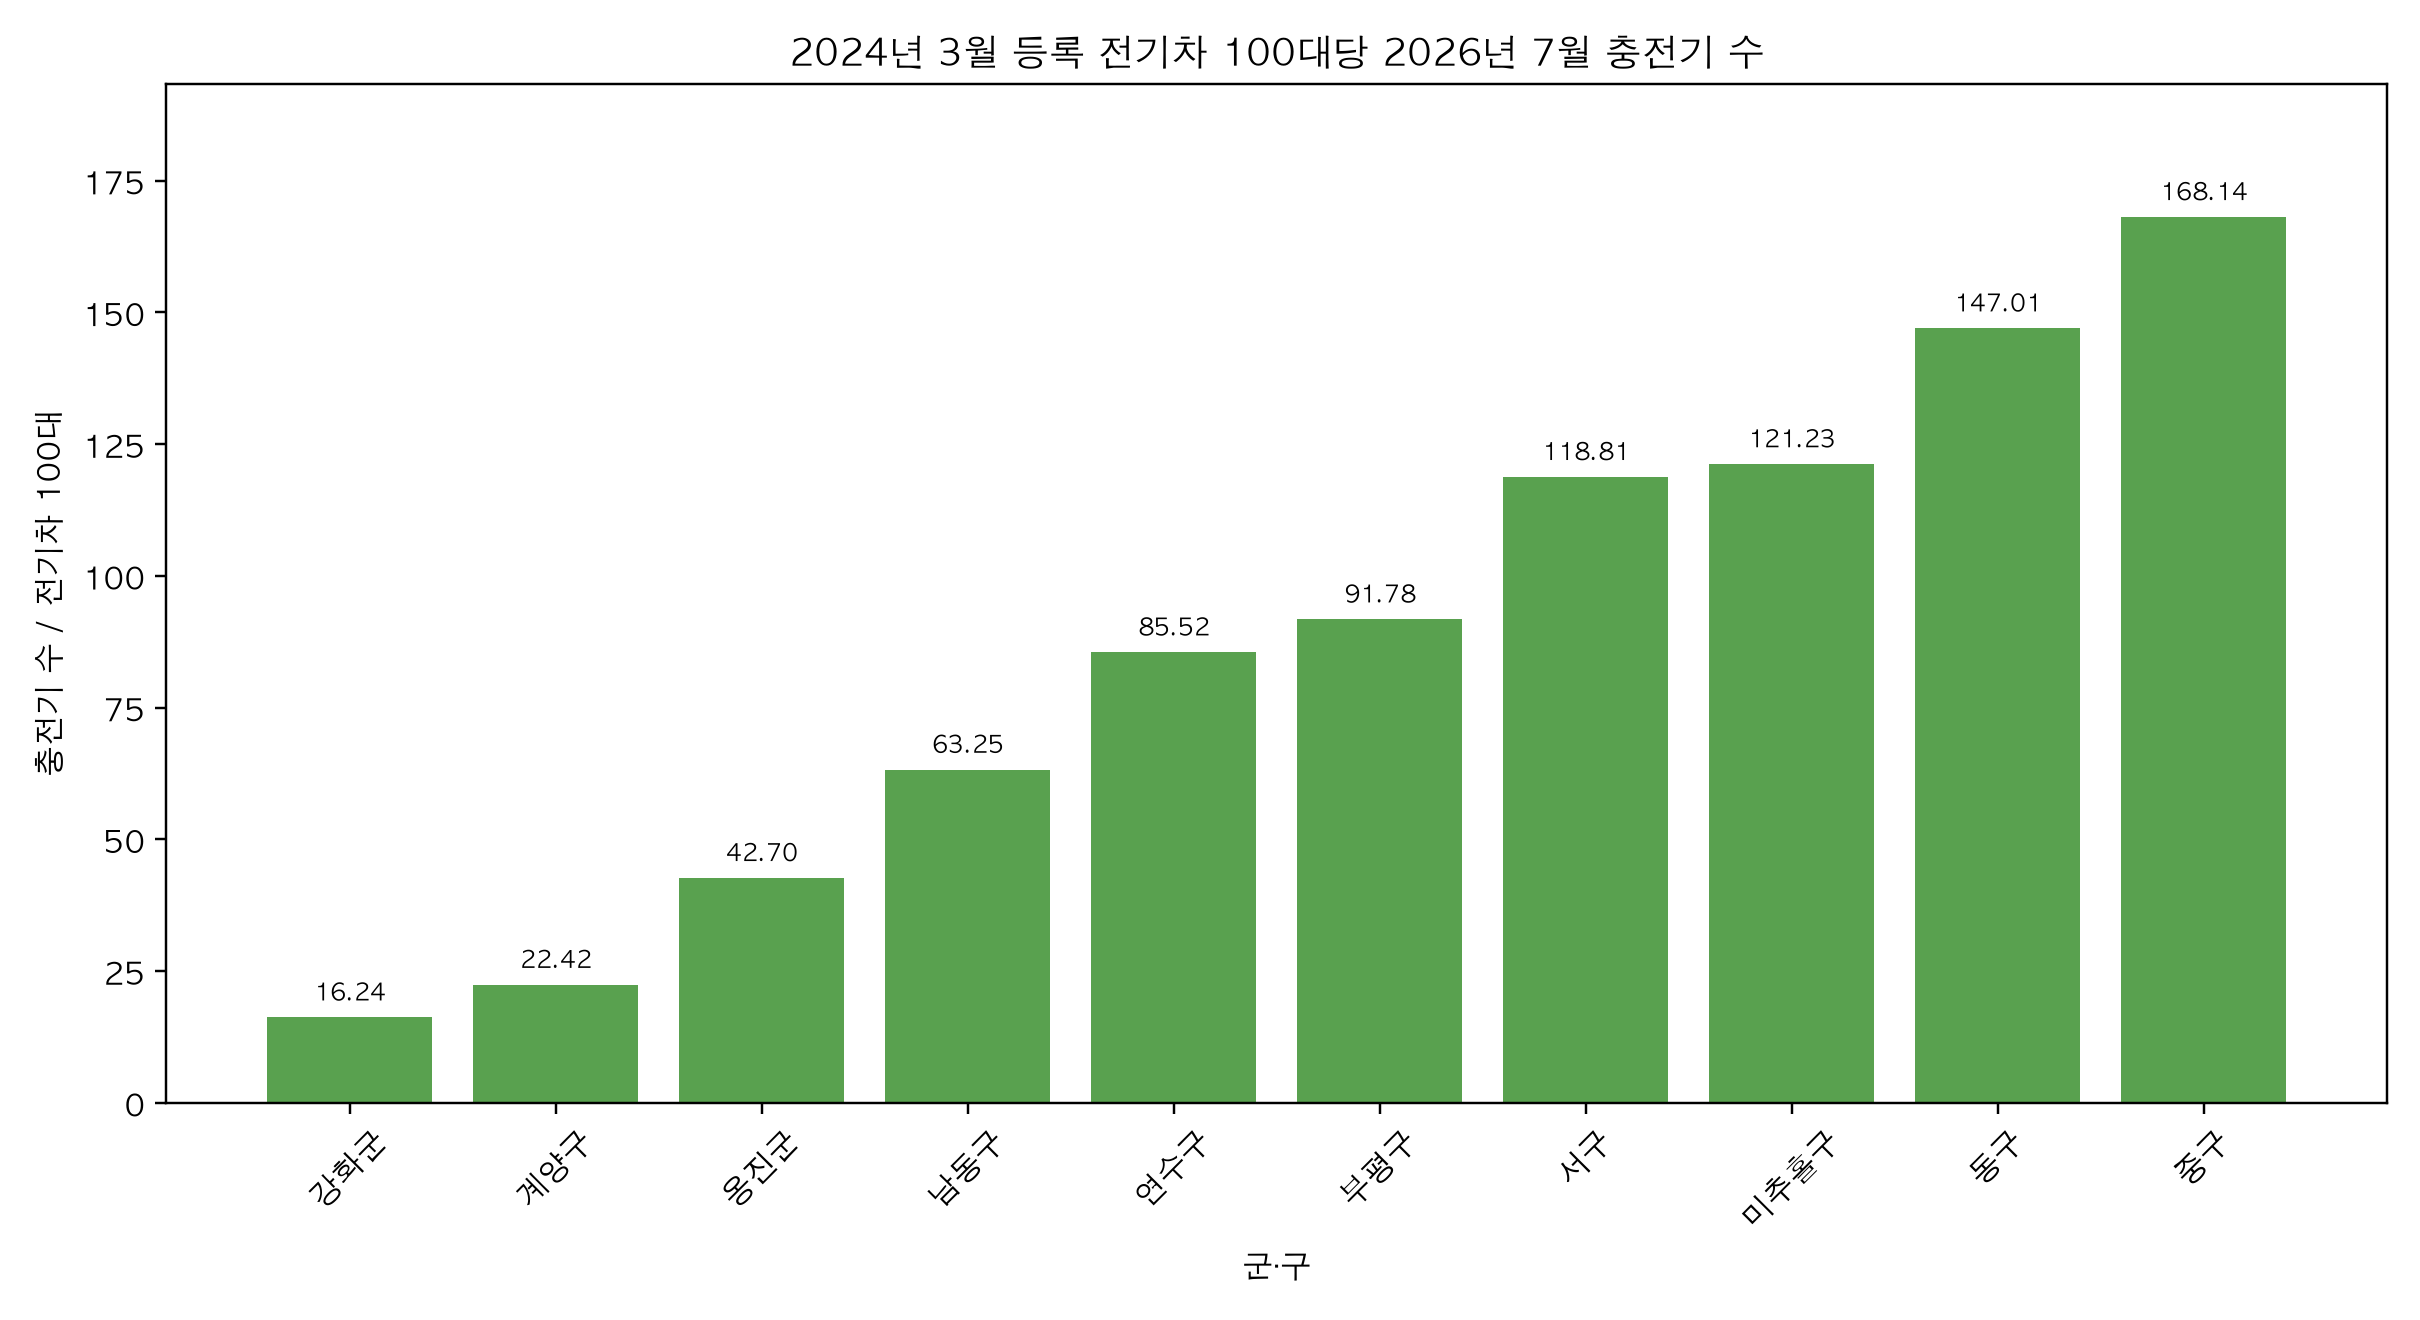
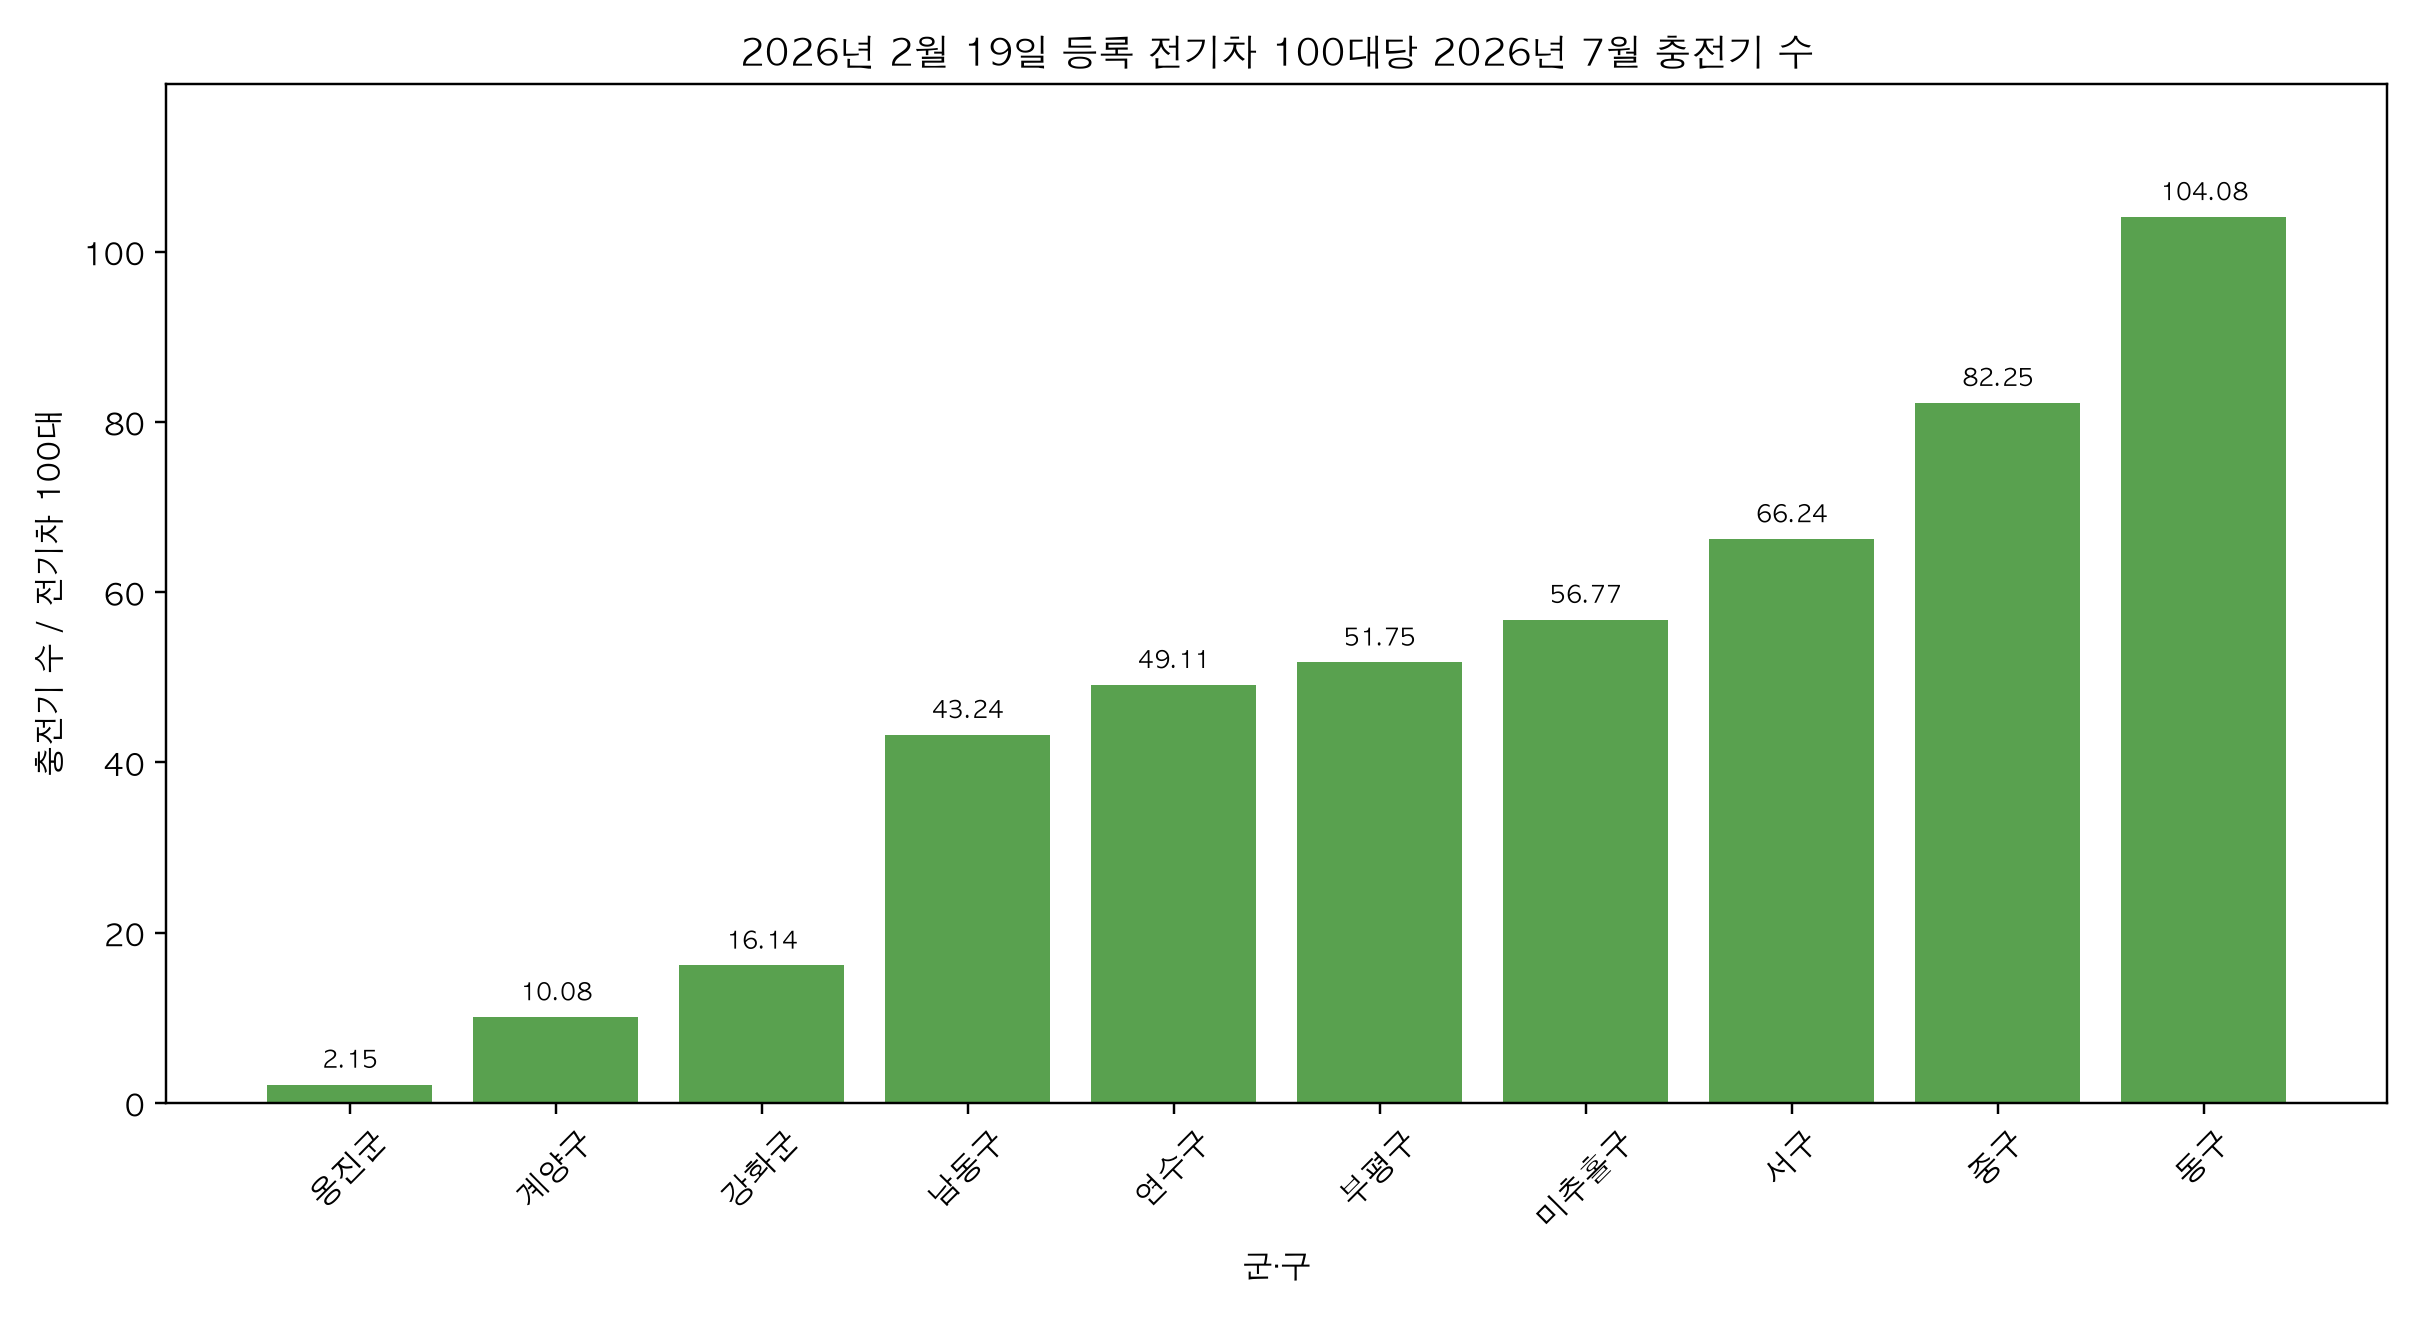
Use 2026 EV registration data for demand metrics

diff --git a/src/merge_charging_and_ev_registration.py b/src/merge_charging_and_ev_registration.py
@@ -16,7 +16,7 @@ CHARGING_SUMMARY_FILE = (
     PROJECT_DIR / "outputs" / "tables" / "charging_district_2024_summary.csv"
 )
 EV_REGISTRATION_FILE = (
-    PROJECT_DIR / "outputs" / "tables" / "ev_registration_2024_district_summary.csv"
+    PROJECT_DIR / "outputs" / "tables" / "ev_registration_2026_district_summary.csv"
 )
 CHARGING_DETAIL_FILE = (
     PROJECT_DIR / "data" / "processed" / "charging_stations_incheon_2024_district.csv"
@@ -56,8 +56,14 @@ EXPECTED_DISTRICTS = {
 }
 
 EXPECTED_CHARGER_TOTAL = 32322
-EXPECTED_EV_TOTAL = 42447
+EXPECTED_EV_TOTAL = 79860
 FAST_CHARGING_THRESHOLD_KW = 50
+
+REGISTRATION_BASE_DATE = "2026-02-19"
+REGISTRATION_BASE_LABEL = "2026년 2월 19일"
+CHARGING_DATA_BASE_DATE = "2026-07"
+CHARGING_DATA_BASE_LABEL = "2026년 7월"
+BOUNDARY_BASE_DATE = "2024-06-30"
 
 CHARGING_INFRA_COLUMNS = [
     "district_2024",
@@ -587,9 +593,9 @@ def add_supply_demand_metrics(df: pd.DataFrame) -> pd.DataFrame:
         result_df["fast_chargers_per_100_ev"].rank(method="min", ascending=True).astype(int)
     )
 
-    result_df["registration_base_date"] = "2024-03-31"
-    result_df["boundary_base_date"] = "2024-06-30"
-    result_df["charging_data_base_date"] = "2026-07"
+    result_df["registration_base_date"] = REGISTRATION_BASE_DATE
+    result_df["boundary_base_date"] = BOUNDARY_BASE_DATE
+    result_df["charging_data_base_date"] = CHARGING_DATA_BASE_DATE
 
     return result_df[OUTPUT_COLUMNS].copy()
 
@@ -697,7 +703,7 @@ def plot_ev_and_chargers(df: pd.DataFrame) -> Path:
         plot_df["total_ev_count"],
         width=width,
         color="#4c78a8",
-        label="전기차 등록 대수(2024-03-31)",
+        label=f"전기차 등록 대수({REGISTRATION_BASE_DATE})",
     )
     ax_charger = ax_ev.twinx()
     charger_bars = ax_charger.bar(
@@ -705,10 +711,13 @@ def plot_ev_and_chargers(df: pd.DataFrame) -> Path:
         plot_df["charger_count"],
         width=width,
         color="#f58518",
-        label="충전기 수(2026-07)",
+        label=f"충전기 수({CHARGING_DATA_BASE_DATE})",
     )
 
-    ax_ev.set_title("군·구별 전기차 등록 대수와 충전기 수 비교(등록 2024-03, 충전 2026-07)")
+    ax_ev.set_title(
+        "군·구별 전기차 등록 대수와 충전기 수 비교"
+        f"(등록 {REGISTRATION_BASE_DATE}, 충전 {CHARGING_DATA_BASE_DATE})"
+    )
     ax_ev.set_xlabel("군·구")
     ax_ev.set_ylabel("전기차 등록 대수")
     ax_charger.set_ylabel("충전기 수")
@@ -765,7 +774,8 @@ def create_figures(df: pd.DataFrame) -> list[Path]:
         plot_metric_bar(
             df,
             "chargers_per_100_ev",
-            "2024년 3월 등록 전기차 100대당 2026년 7월 충전기 수",
+            f"{REGISTRATION_BASE_LABEL} 등록 전기차 100대당 "
+            f"{CHARGING_DATA_BASE_LABEL} 충전기 수",
             "충전기 수 / 전기차 100대",
             CHARGERS_PER_100_EV_FIGURE,
             annotate=True,
@@ -773,7 +783,8 @@ def create_figures(df: pd.DataFrame) -> list[Path]:
         plot_metric_bar(
             df,
             "public_chargers_per_100_ev",
-            "2024년 3월 등록 전기차 100대당 2026년 7월 일반 이용 가능 충전기 수",
+            f"{REGISTRATION_BASE_LABEL} 등록 전기차 100대당 "
+            f"{CHARGING_DATA_BASE_LABEL} 일반 이용 가능 충전기 수",
             "일반 이용 가능 충전기 수 / 전기차 100대",
             PUBLIC_CHARGERS_PER_100_EV_FIGURE,
             annotate=True,
@@ -781,7 +792,8 @@ def create_figures(df: pd.DataFrame) -> list[Path]:
         plot_metric_bar(
             df,
             "fast_chargers_per_100_ev",
-            "2024년 3월 등록 전기차 100대당 2026년 7월 급속 충전기 수",
+            f"{REGISTRATION_BASE_LABEL} 등록 전기차 100대당 "
+            f"{CHARGING_DATA_BASE_LABEL} 급속 충전기 수",
             "급속 충전기 수 / 전기차 100대",
             FAST_CHARGERS_PER_100_EV_FIGURE,
             annotate=False,
@@ -858,7 +870,11 @@ def print_terminal_summary(df: pd.DataFrame, csv_paths: list[Path], figure_paths
     )
 
     print("\n[지표 해석]")
-    print("모든 100대당 지표는 '2024년 3월 등록 전기차 100대당 2026년 7월 충전기 수'입니다.")
+    print(
+        "모든 100대당 지표는 "
+        f"'{REGISTRATION_BASE_LABEL} 등록 전기차 100대당 "
+        f"{CHARGING_DATA_BASE_LABEL} 충전기 수'입니다."
+    )
 
     print("\n[생성 CSV]")
     for path in csv_paths:

diff --git a/src/preprocess_ev_registration.py b/src/preprocess_ev_registration.py
@@ -9,7 +9,7 @@ RAW_FILE = (
     PROJECT_DIR
     / "data"
     / "raw"
-    / "ev_registration_2024_03_31.csv"
+    / "ev_registration_2026-02-19.csv"
 )
 
 PROCESSED_DIR = PROJECT_DIR / "data" / "processed"
@@ -17,17 +17,17 @@ OUTPUT_TABLE_DIR = PROJECT_DIR / "outputs" / "tables"
 
 CLEAN_FILE = (
     PROCESSED_DIR
-    / "ev_registration_2024_03_31_clean.csv"
+    / "ev_registration_2026_02_19_clean.csv"
 )
 
 DISTRICT_SUMMARY_FILE = (
     OUTPUT_TABLE_DIR
-    / "ev_registration_2024_district_summary.csv"
+    / "ev_registration_2026_district_summary.csv"
 )
 
 VEHICLE_TYPE_SUMMARY_FILE = (
     OUTPUT_TABLE_DIR
-    / "ev_registration_2024_vehicle_type_summary.csv"
+    / "ev_registration_2026_vehicle_type_summary.csv"
 )
 
 ENCODING_CANDIDATES = [
@@ -45,7 +45,6 @@ REQUIRED_COLUMNS = [
     "승합",
     "화물",
     "특수",
-    "계",
 ]
 
 NUMERIC_COLUMNS = [
@@ -57,7 +56,7 @@ NUMERIC_COLUMNS = [
 ]
 
 EXPECTED_DISTRICT_COUNT = 10
-EXPECTED_TOTAL_EV_COUNT = 42447
+EXPECTED_TOTAL_EV_COUNT = 79860
 
 
 def require_input_file(path: Path) -> None:
@@ -122,6 +121,21 @@ def require_columns(
         )
 
 
+def add_total_column_if_missing(dataframe: pd.DataFrame) -> pd.DataFrame:
+    """2026 원본처럼 계 열이 없으면 차종별 합계로 계 열을 만든다."""
+    total_df = dataframe.copy()
+
+    if "계" not in total_df.columns:
+        total_df["계"] = (
+            total_df["승용"]
+            + total_df["승합"]
+            + total_df["화물"]
+            + total_df["특수"]
+        )
+
+    return total_df
+
+
 def validate_fuel_type(dataframe: pd.DataFrame) -> None:
     fuel_values = (
         dataframe["연료별"]
@@ -165,6 +179,9 @@ def convert_numeric_columns(
     converted_df = dataframe.copy()
 
     for column in numeric_columns:
+        if column not in converted_df.columns:
+            continue
+
         numeric_series = pd.to_numeric(
             converted_df[column],
             errors="coerce",
@@ -417,6 +434,7 @@ def main() -> None:
     clean_df = normalize_text_columns(clean_df)
     validate_fuel_type(clean_df)
     clean_df = convert_numeric_columns(clean_df, NUMERIC_COLUMNS)
+    clean_df = add_total_column_if_missing(clean_df)
     validate_row_totals(clean_df)
 
     district_summary = build_district_summary(clean_df)
